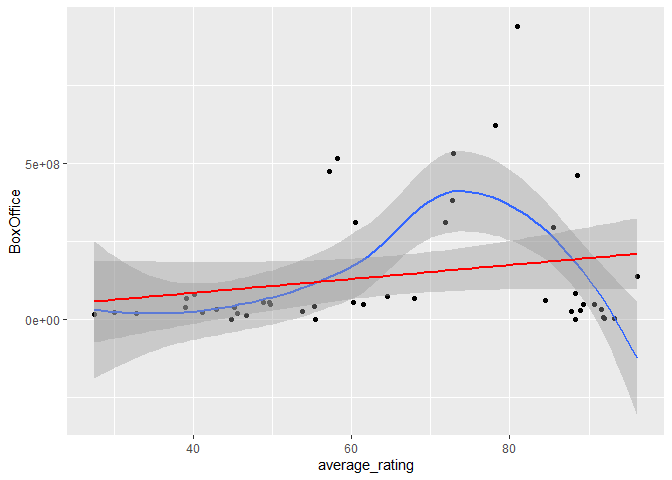
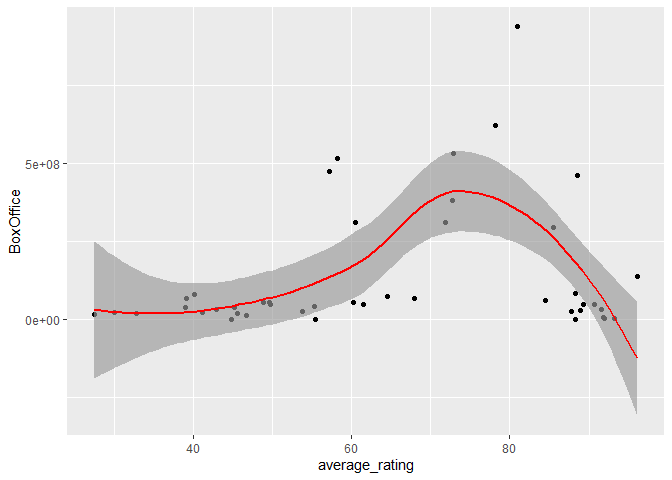
4:21_6_25_2022

diff --git a/README.md b/README.md
@@ -935,7 +935,7 @@ B<-unique(A)
 g <- ggplot(B, aes(y = BoxOffice, x = average_rating))
 g + geom_point() +
 geom_smooth() +
-geom_smooth(method = lm, col = "Red")
+geom_smooth(method = "loess", col = "Red")
 ```
 
     ## `geom_smooth()` using method = 'loess' and formula 'y ~ x'
